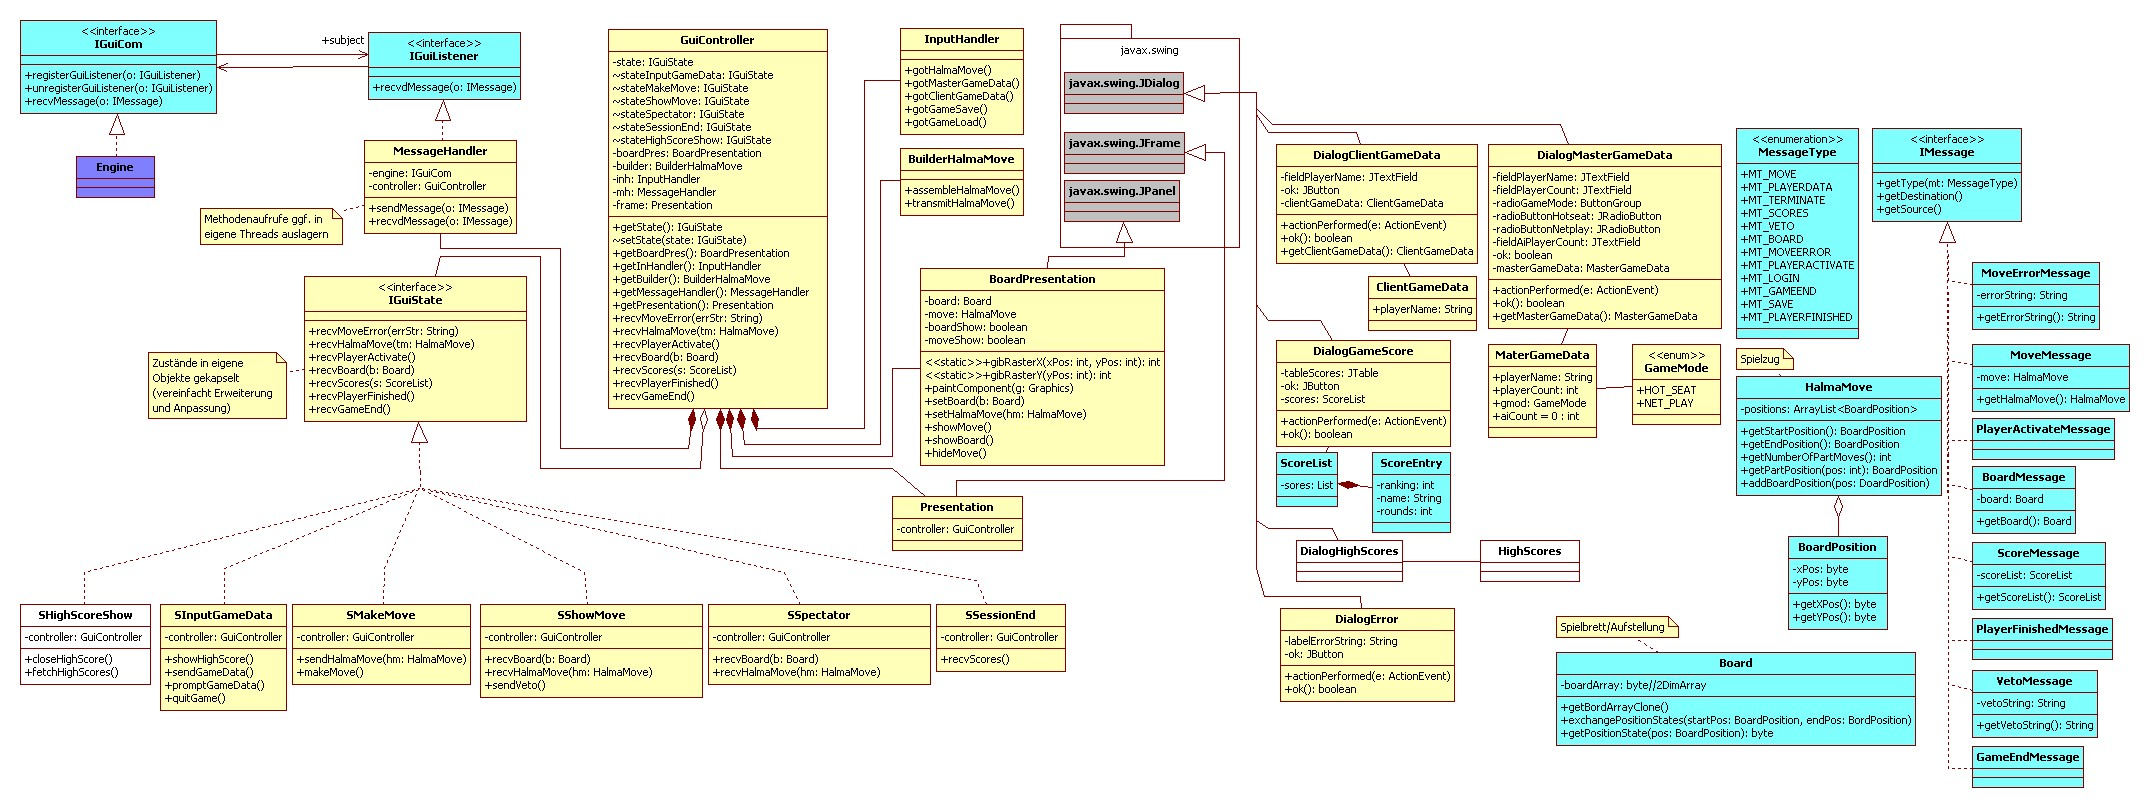
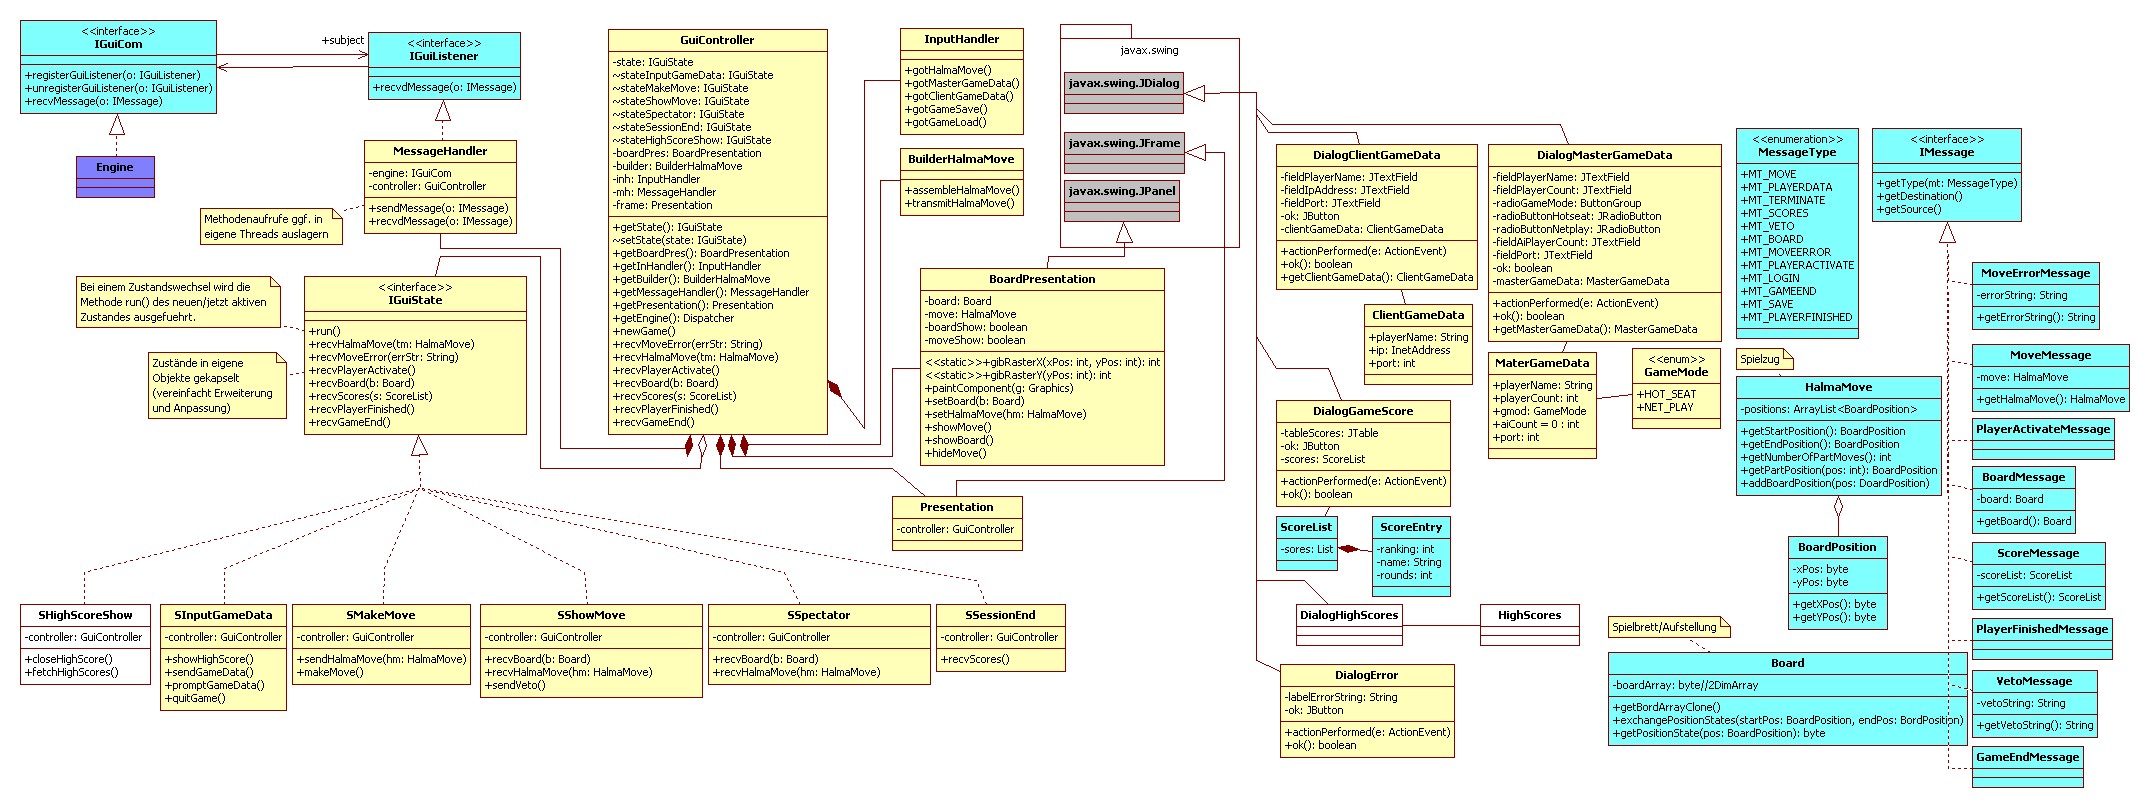
* GUI: Verbieten von Feldern, die ausserhalb des Spielbretts liegen (bei der Zugeingabe) * Dispatcher: Thread, der Nachrichten aus der Nachrichtenwarteschlange weiterleitet, wird nur noch auf dem Server gestartet; der Client benötigt diese Schlange nicht * Anpassen des GUI Entwurfs an die aktuelle I

diff --git a/trunk/src/com/googlecode/btuswphalma/gui/GuiController.java b/trunk/src/com/googlecode/btuswphalma/gui/GuiController.java
@@ -86,8 +86,7 @@ public class GuiController{
 	
 	stateSessionEnd = new SSessionEnd(this);
 	
-	// FIXME: (GUI) initialen Controllerzustand setzen
-	//this.state = stateInputGameData
+	this.state = null;	// wird von newGame anständig gesetzt
 	
 	
 	// TODO: (GUI) Instanzierung der GUI-Hilfsklassen
@@ -96,8 +95,7 @@ public class GuiController{
 	this.inh = new InputHandler();
 	this.plp = new PlayerListPresentation();
 	
-	// FIXME: (ALLE) Instanzierung Engine (gameengine und serverengine)
-	engine = new Dispatcher(); // hoffentlich reicht das...
+	engine = new Dispatcher();
 	this.mh = MessageHandler.createMasterMessageHandler(engine, this);
 	
 	// Presentation traegt sich selbst ein, siehe initialize()
@@ -216,7 +214,6 @@ public class GuiController{
      * Startet ein neues Spiel
      */
     public void newGame() {
-	// TODO: Sollte das so bleiben müssen wir den Entwurf anpassen
 	state = stateInputGameData;
 	state.run();
     }

diff --git a/trunk/src/com/googlecode/btuswphalma/gui/InputHandler.java b/trunk/src/com/googlecode/btuswphalma/gui/InputHandler.java
@@ -9,6 +9,8 @@ import java.awt.event.MouseListener;
 import com.googlecode.btuswphalma.gameengine.BoardPosition;
 import com.googlecode.btuswphalma.gameengine.HalmaMove;
 
+import com.googlecode.btuswphalma.gameengine.HalmaMath;
+
 /**
  * Hilfsklasse zu Verarbeitung der Benutzereingaben, zB fuer
  * die Eingabe der Spielzuege.
@@ -101,9 +103,11 @@ public class InputHandler implements MouseListener {
 		BoardPosition pos;
 		pos = board.gibBoardAusRaster(x, y);
 		
-		board.showPosition(pos);
+		if(HalmaMath.isOnBoard(pos)) {
+		    board.showPosition(pos);
+		    builder.addPosition(pos);
+		}
 		
-		builder.addPosition(pos);
 		// Debugausgabe
 		byte xPos = pos.getXPos();
 		byte yPos = pos.getYPos();

diff --git a/trunk/src/com/googlecode/btuswphalma/gui/SInputGameData.java b/trunk/src/com/googlecode/btuswphalma/gui/SInputGameData.java
@@ -56,7 +56,8 @@ public class SInputGameData implements IRunnableGuiState {
 	}
     }
     
-    void promptClientGameData() {
+    // Zeigt den Dialog für die Clientspielerdaten
+    private void promptClientGameData() {
 	DialogClientGameData dialog = new DialogClientGameData(controller.getPresentation(),false);
 	
 	if(dialog.ok()) {
@@ -68,7 +69,8 @@ public class SInputGameData implements IRunnableGuiState {
 	}
     }
     
-    void promptMasterGameData() {
+    // Zeigt den Dialog für die Masterspielerdaten
+    private void promptMasterGameData() {
 	DialogMasterGameData dialog = new DialogMasterGameData(controller.getPresentation());
 	
 	if(dialog.ok()) {

diff --git a/trunk/src/com/googlecode/btuswphalma/serverengine/Dispatcher.java b/trunk/src/com/googlecode/btuswphalma/serverengine/Dispatcher.java
@@ -192,13 +192,24 @@ public class Dispatcher extends Thread implements IDispatcher, IGuiCom {
 	if (msgDest == -1) {
 	    manager.acceptMessage(msg);
 	} else {
-	    if (hotseat || msgDest <= 1) {
-		dispatchToGui(msg);
-	    }
-
 	    if (!hotseat && (msgDest == 0 || msgDest > 1)) {
 		network.sendMessage(msg);
 	    }
+	    
+	    if (hotseat || msgDest <= 1) {
+		dispatchToGui(msg);
+	    }
+	}
+    }
+    
+    /**
+     * @see java.lang.Thread#start()
+     */
+    @Override
+    public void start() {
+	if(server) {
+	    // Thread zum Warteschlangeabhören muss nur auf dem Server laufen
+	    super.start();
 	}
     }
 
